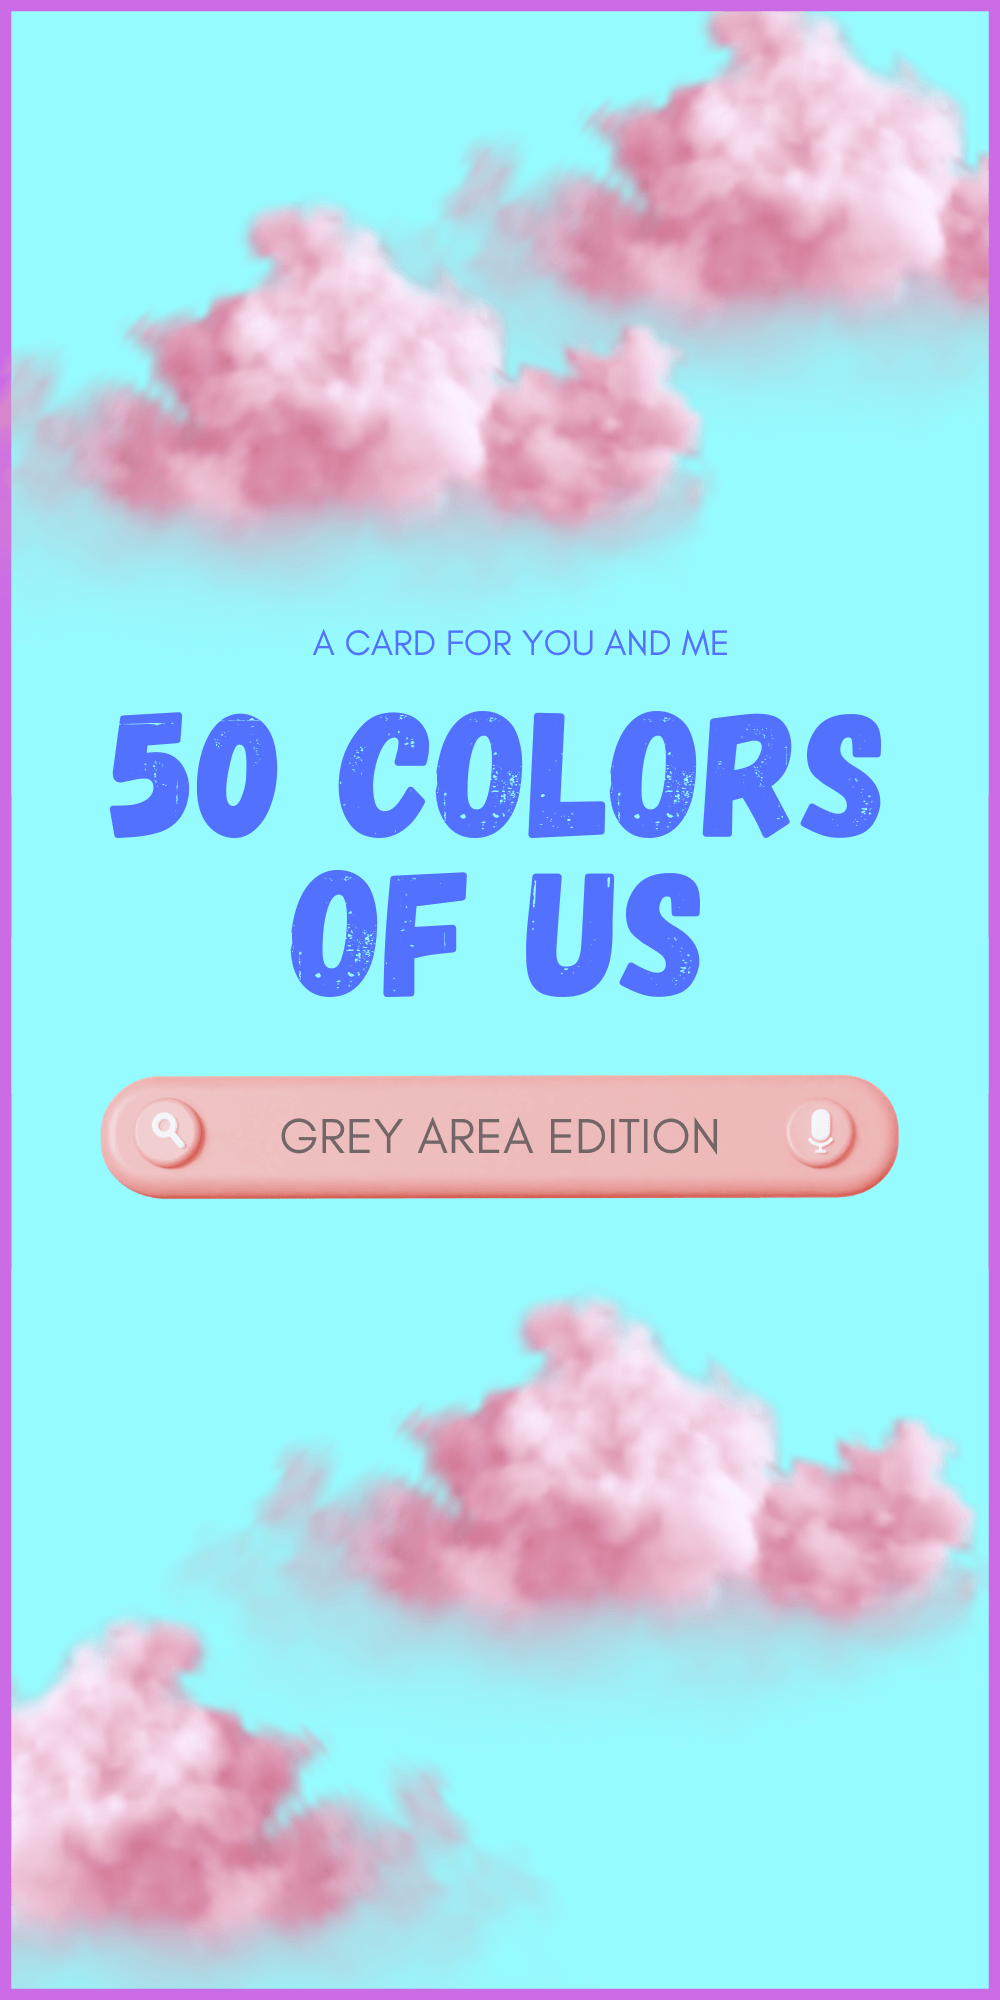
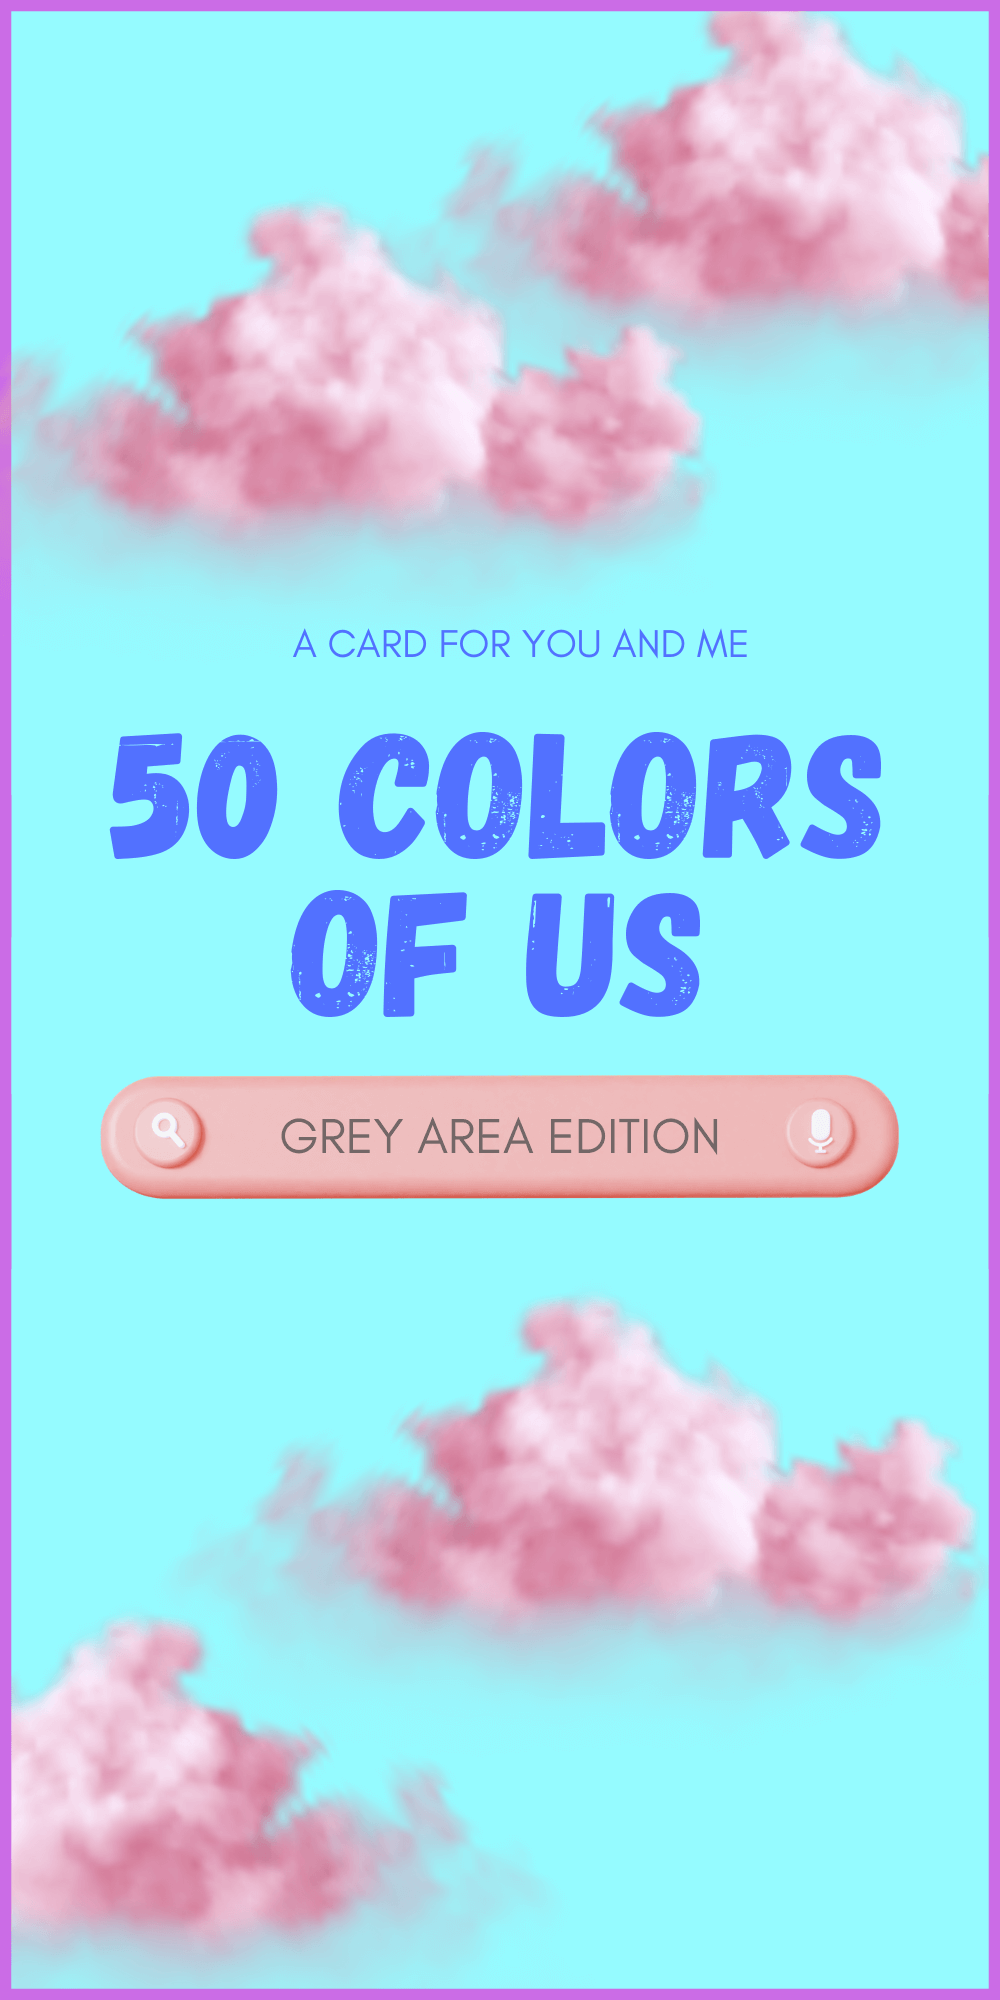
Yes

Changed region(s): [[0.279, 0.31, 0.899, 0.527], [0.093, 0.341, 0.279, 0.434]]

diff --git a/index.html b/index.html
@@ -9,7 +9,7 @@
 <body>
     <header>
         <img class="img-logo" src="assets/logo.png" alt="MomaBobaStudio Logo">
-        <h1>PDKT<span style="font-family: 'Times New Roman', Times, serif; font-style: italic;">- Dekat melalui kartu</span></h1>
+        <h1>50 COLORS OF US</h1>
     </header>
     <main>
         <div class="content">
